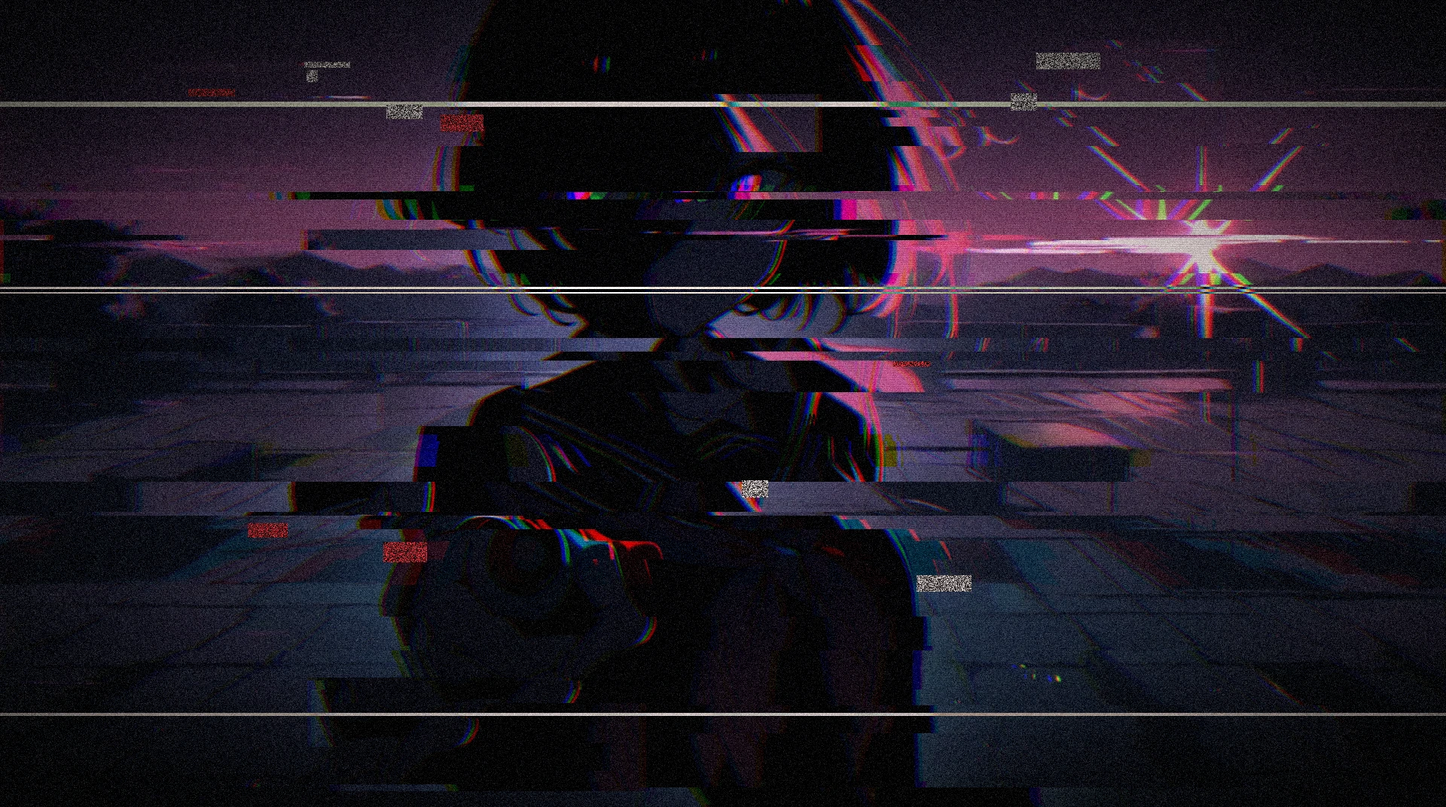
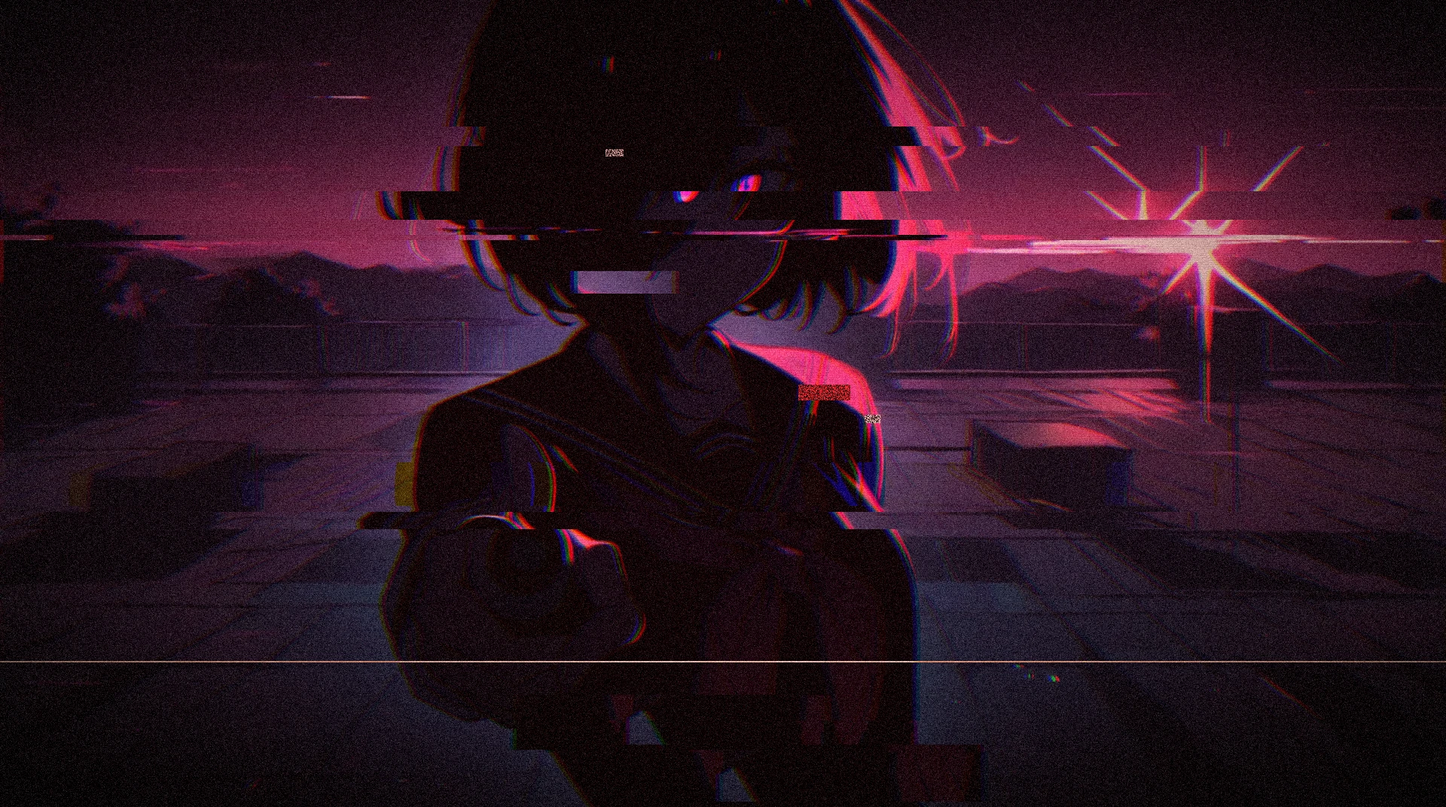
2.3.0: unify horror CGs in the game's crimson palette, soften new cute portraits

diff --git a/tools/horror_grade.py b/tools/horror_grade.py
@@ -8,7 +8,7 @@ ROOT = Path(__file__).resolve().parent.parent
 def grade(src, dst, seed):
     rng = np.random.default_rng(seed)
     im = Image.open(src).convert("RGB").filter(ImageFilter.GaussianBlur(0.5))
-    im = ImageEnhance.Color(im).enhance(0.6)
+    im = ImageEnhance.Color(im).enhance(0.85)
     a = np.asarray(im, dtype=np.float32) / 255
     H, W, _ = a.shape
     a = np.clip((a - 0.05) * 1.3, 0, 1) ** 1.25 * 0.95
@@ -33,7 +33,11 @@ def grade(src, dst, seed):
     for _ in range(int(rng.integers(6, 14) * K)):
         bw, bh = int(rng.integers(12, 90)), int(rng.integers(6, 30)); x, y = int(rng.integers(0, W - bw)), int(rng.integers(0, H - bh))
         a[y:y+bh, x:x+bw] = rng.random((bh, bw, 1)) * np.array([1.0, 0.25, 0.3]) if rng.random() < .5 else rng.random((bh, bw, 1))
-    a = a * (1 - 0.08 * ((np.arange(H) % 3) == 0)[:, None, None])
+    lum = (a * [0.3, 0.59, 0.11]).sum(2, keepdims=True)
+    shadow = np.clip(1 - lum * 2.0, 0, 1); red = np.array([0.55, 0.04, 0.07], dtype=np.float32)
+    a = a * (1 - 0.30 * shadow) + red * 0.26 * shadow * (0.45 + lum)
+    a[:, :, 0] = np.clip(a[:, :, 0] * 1.12, 0, 1); a[:, :, 1] *= 0.88; a[:, :, 2] *= 0.86
+    a = a * (1 - 0.06 * ((np.arange(H) % 3) == 0)[:, None, None])
     yy, xx = np.mgrid[0:H, 0:W]; d = np.sqrt(((xx - W / 2) / (W / 2)) ** 2 + ((yy - H / 2) / (H / 2)) ** 2)
     a = a * np.clip(1.1 - 0.5 * d ** 1.6, 0.2, 1)[:, :, None]
     a[:, :, 0] = np.clip(a[:, :, 0] * 1.06, 0, 1)
